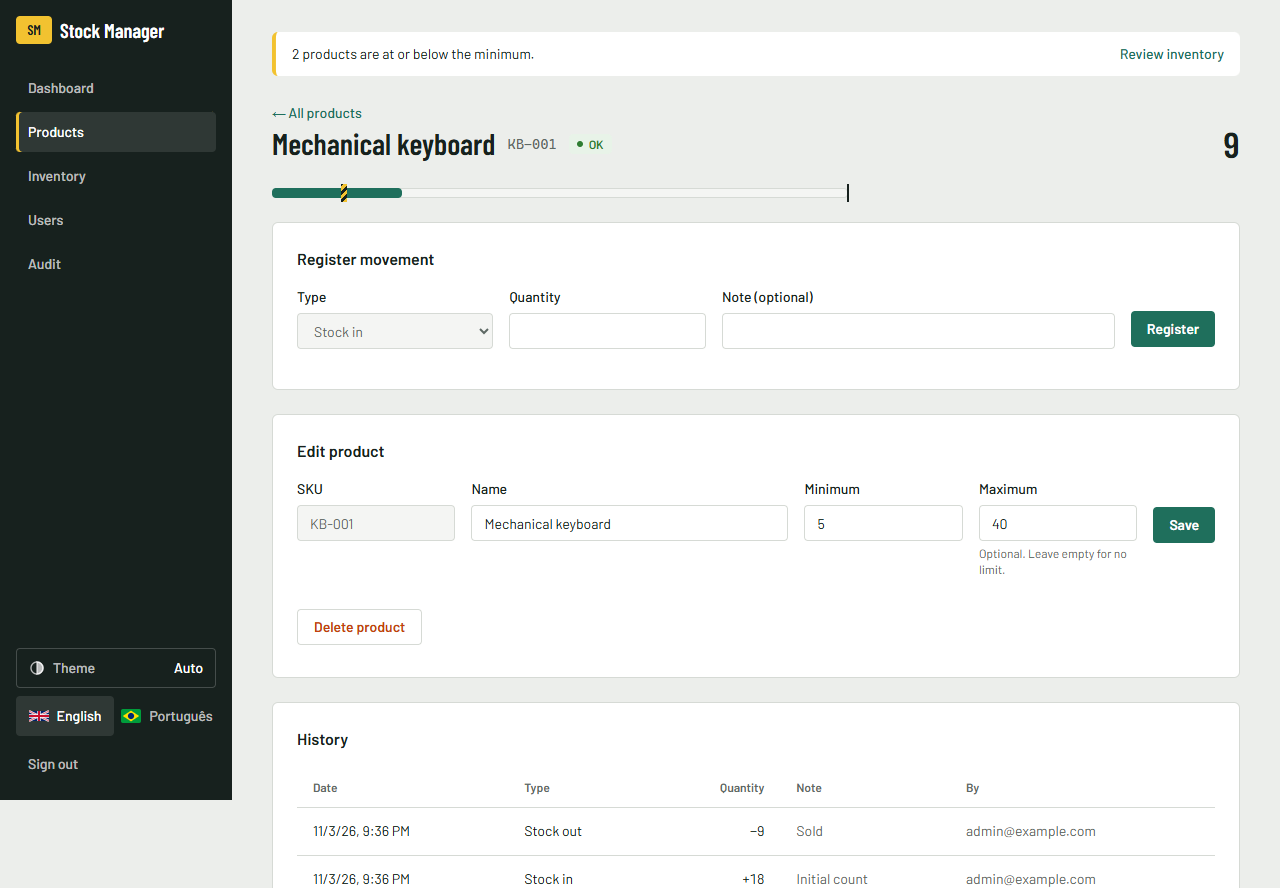
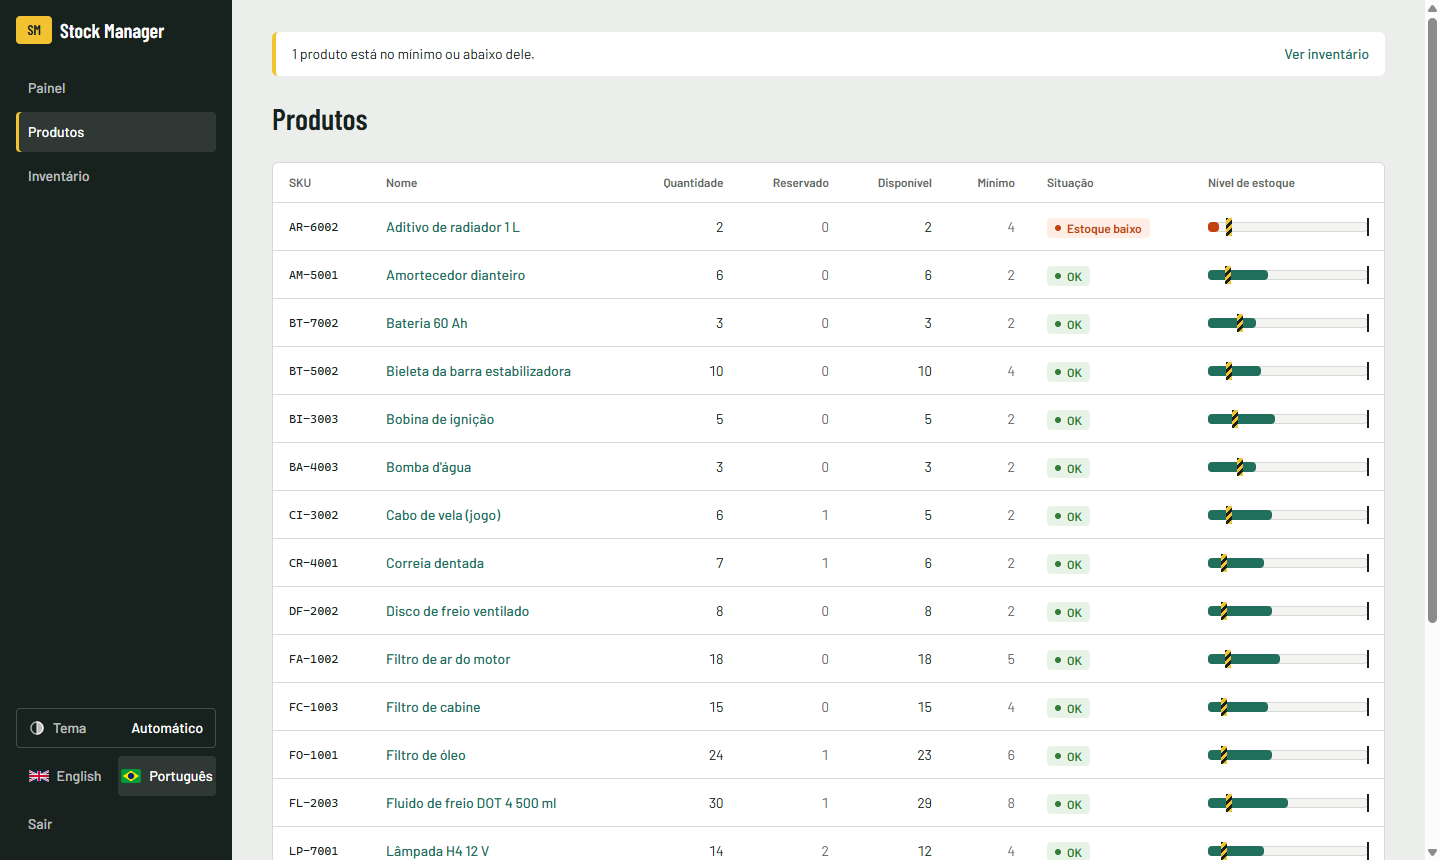
docs: screenshots with auto parts and reserved stock

diff --git a/README.md b/README.md
@@ -131,7 +131,7 @@ Use cases: create, list, get, update and delete products, register and list move
 - Forms use react-hook-form + zod for instant feedback, but when the API refuses something they show its reason, translated from the error code. The rules stay in the backend.
 - English and Portuguese with next-intl. Every list has loading, error and empty states. Low stock is shown as text, not color alone.
 
-![Product page](docs/product.png)
+![Products with reserved and available stock](docs/product.png)
 
 ![Users](docs/users.png)
 
